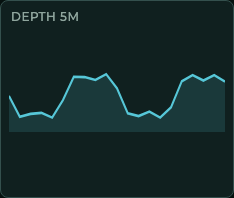
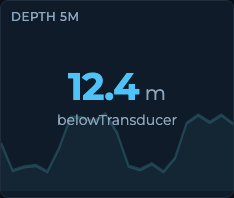
fix(manager): sync wind dial, wind-steer + trend previews to the device
The web layout-editor's screen designs had drifted from the redesigned
device screens. Bring the remaining three into sync (autopilot HUD was
done in 267f7ea):

- windDial: redesigned to match screen_wind.cpp — wide white band +
  green rail, heading-up upright cardinals (N red), close-hauled red/
  green arcs, compact boat, slim orange-A/cyan-T wind markers, tide
  vector, HDG, AWS/AWA/TWS/TWA tiles.
- windSteer: new fullscreen preview + preset matching
  screen_wind_steer.cpp — the autopilot-style semicircular compass with
  a faint red no-go sector + slim green target laylines (from the polar
  beat/gybe angles) + amber wind bug, "TWA | TWD" sub-line, XTE strip,
  AWS/AWA/TWS/TWA tiles. Added the windSteer widget type, the
  wind-steer screen preset, and the performance.beatAngle/gybeAngle +
  environment.wind.directionTrue SK paths.
- trend: the device renders a trend metric in a grid tile as its latest
  NUMERIC value (ui_layouts.cpp falls Trend back to Numeric — the
  sparkline chart is a dedicated template, not a per-tile widget). The
  preview now shows the numeric hero over a faint sparkline watermark so
  it stays device-accurate yet distinct in the widget picker.

preset-coverage now expects 10 screens (wind-steer added). All manager
tests pass (node test/run.js + npx playwright test widget-snapshots).

Changed region(s): [[0.0, 0.0, 1.0, 1.0], [0.5085, 0.697, 0.7778, 0.8788], [0.2094, 0.697, 0.2692, 0.8485]]

diff --git a/signalk/plugins/signalk-espdisp-manager/public/layout-editor.html b/signalk/plugins/signalk-espdisp-manager/public/layout-editor.html
@@ -186,6 +186,12 @@
   .wpreview .btn-bubble { background: var(--accent); color: #001218; border-radius: 20px;
     padding: 10px 22px; font-weight: 700; font-size: 16px; letter-spacing: 0.04em; }
   .wpreview .trend svg { width: 100%; height: 72px; }
+  /* Trend tile: device falls back to the latest numeric value, so the number
+     is the hero and the sparkline sits behind it as a faint watermark. */
+  .wpreview .trend-ghost { position: absolute; left: 0; right: 0; bottom: 0;
+    pointer-events: none; }
+  .wpreview .trend-ghost svg { height: 96px; }
+  .wpreview .trend-num { position: relative; z-index: 1; }
   .wpreview.empty { color: var(--fg-dim); font-style: italic; min-height: 60px; }
   /* windDial fills the whole tile width and stays square */
   .wpreview.wd-wrap { min-height: 0; padding: 0; }
@@ -566,88 +572,153 @@ function widgetPreview (widget, tile) {
       return wrap;
     }
     case 'windDial': {
-      // Full-screen wind dial preview that matches the device's
-      // src/ui/screen_wind.cpp render: outer bezel ring, N/E/S/W
-      // cardinals + intercardinals, close-hauled red/green arcs at
-      // ±30° from bow, bow-relative wind-angle scale (30..150),
-      // apparent + true wind markers, tide arrow, center readouts.
-      // Sample values picked to match a recognizable beam reach.
+      // Full-screen wind dial preview matching the device's current
+      // src/ui/screen_wind.cpp render: a 360° rose with a wide white band +
+      // green rail, UPRIGHT cardinals (heading-up, repositioned per heading),
+      // close-hauled red/green arcs at the bow, a compact boat, slim
+      // orange-A / cyan-T wind markers, a tide arrow, and the numbers in a
+      // bottom tile row (AWS / AWA / TWS / TWA).
       const svgNS = 'http://www.w3.org/2000/svg';
       const svg = document.createElementNS(svgNS, 'svg');
       svg.setAttribute('viewBox', '0 0 480 480');
       svg.setAttribute('preserveAspectRatio', 'xMidYMid meet');
-      // Build SVG by string for compactness; the markup mirrors the
-      // LVGL element list in screen_wind.cpp::build_bezel et al.
-      const CX = 240, CY = 240, R = 218, RC = 175, RF = 190, RM = 200;
-      const sampleHdg = 47, sampleAWA = 50, sampleTWA = 75;
-      function polar (cx, cy, deg, r) {
-        const a = (deg - 90) * Math.PI / 180;
-        return [cx + r * Math.cos(a), cy + r * Math.sin(a)];
-      }
+      const CX = 240, CY = 174, RB = 158, RW = 145, RM = 140, RF = 130;
+      const hdg = 56, awa = 42, twa = 46;
+      function polar (deg, r) { const a = (deg - 90) * Math.PI / 180; return [CX + r * Math.cos(a), CY + r * Math.sin(a)]; }
       const ticks = [];
       for (let d = 22.5; d < 360; d += 45) {
-        const [x1, y1] = polar(CX, CY, d - sampleHdg, R - 16);
-        const [x2, y2] = polar(CX, CY, d - sampleHdg, R - 6);
-        ticks.push(`<line x1="${x1}" y1="${y1}" x2="${x2}" y2="${y2}" stroke="#8fa59d" stroke-width="2"/>`);
+        const [x1, y1] = polar(d - hdg, RB - 4);
+        const [x2, y2] = polar(d - hdg, RB - 13);
+        ticks.push(`<line x1="${x1}" y1="${y1}" x2="${x2}" y2="${y2}" stroke="#5a6b78" stroke-width="2"/>`);
       }
-      function card (label, deg, big) {
-        const [x, y] = polar(CX, CY, deg - sampleHdg, R - 22);
-        const f = big ? 24 : 16;
-        const c = big ? '#f3f7f2' : '#8fa59d';
-        return `<text x="${x}" y="${y + f * 0.35}" font-family="Montserrat" font-weight="700" font-size="${f}" fill="${c}" text-anchor="middle">${label}</text>`;
+      const cards = [];
+      for (const [lab, b, big] of [['N', 0, 1], ['NE', 45, 0], ['E', 90, 1], ['SE', 135, 0], ['S', 180, 1], ['SW', 225, 0], ['W', 270, 1], ['NW', 315, 0]]) {
+        const [x, y] = polar(b - hdg, RW);
+        const f = big ? 20 : 14;
+        const col = lab === 'N' ? '#ff5252' : (big ? '#16222f' : '#44546a');
+        cards.push(`<text x="${x}" y="${y + f * 0.34}" font-family="Montserrat" font-weight="700" font-size="${f}" fill="${col}" text-anchor="middle">${lab}</text>`);
       }
-      // Numeric wind-angle scale (bow-relative, so NOT rotated with bezel).
-      const scaleNums = [];
-      for (const d of [30, 60, 90, 120, 150]) {
-        for (const sign of [-1, 1]) {
-          const [x, y] = polar(CX, CY, sign * d, RF - 26);
-          scaleNums.push(`<text x="${x}" y="${y + 4}" font-family="Montserrat" font-size="13" fill="#8fa59d" text-anchor="middle">${d}</text>`);
-        }
+      function wm (deg, color, letter) {
+        const [ox, oy] = polar(deg, RM);
+        const [ix, iy] = polar(deg, RM - 30);
+        const [lx, ly] = polar(deg, RM - 46);
+        return `<line x1="${ox}" y1="${oy}" x2="${ix}" y2="${iy}" stroke="${color}" stroke-width="6" stroke-linecap="round"/>`
+          + `<circle cx="${ox}" cy="${oy}" r="7" fill="${color}"/>`
+          + `<text x="${lx}" y="${ly + 6}" font-family="Montserrat" font-size="18" font-weight="700" fill="${color}" text-anchor="middle">${letter}</text>`;
       }
-      const [awaX, awaY] = polar(CX, CY, sampleAWA, RM - 14);
-      const [twaX, twaY] = polar(CX, CY, sampleTWA, RM - 14);
+      function tile (x, cap, unit, val, col) {
+        const y = 356, w = 110, h = 116;
+        return `<rect x="${x}" y="${y}" width="${w}" height="${h}" rx="10" fill="#101b29" stroke="#1f2d3d"/>`
+          + `<text x="${x + 8}" y="${y + 22}" font-family="Montserrat" font-size="14" fill="#8fa7bd">${cap}</text>`
+          + (unit ? `<text x="${x + w - 8}" y="${y + 22}" font-family="Montserrat" font-size="14" fill="#8fa7bd" text-anchor="end">${unit}</text>` : '')
+          + `<text x="${x + w / 2}" y="${y + h - 20}" font-family="Montserrat" font-size="38" font-weight="700" fill="${col}" text-anchor="middle">${val}</text>`;
+      }
       svg.innerHTML = `
-        <!-- bezel rim -->
-        <circle cx="${CX}" cy="${CY}" r="${R}" fill="none" stroke="#34504d" stroke-width="6"/>
-        <circle cx="${CX}" cy="${CY}" r="${R + 10}" fill="none" stroke="#111a26" stroke-width="2"/>
-        <circle cx="${CX}" cy="${CY}" r="${R - 14}" fill="none" stroke="#0c1828" stroke-width="1"/>
-        <!-- dark face -->
-        <circle cx="${CX}" cy="${CY}" r="${RF}" fill="#06110f"/>
-        <!-- ticks + cardinals (rotated as a group to mirror device bezel rotation by -hdg) -->
+        <circle cx="${CX}" cy="${CY}" r="${RF}" fill="#101b29" stroke="#1f2d3d"/>
+        <circle cx="${CX}" cy="${CY}" r="${RB}" fill="none" stroke="#f2f6fb" stroke-width="26" stroke-opacity="0.92"/>
+        <circle cx="${CX}" cy="${CY}" r="${RB + 9}" fill="none" stroke="#36d399" stroke-width="6" stroke-opacity="0.85"/>
         ${ticks.join('')}
-        ${card('N', 0, true)}${card('E', 90, true)}${card('S', 180, true)}${card('W', 270, true)}
-        ${card('NE', 45)}${card('SE', 135)}${card('SW', 225)}${card('NW', 315)}
-        <!-- bow notch outside the bezel (always at top) -->
-        <rect x="${CX - 4}" y="${CY - R - 14}" width="8" height="12" fill="#f3f7f2" rx="2"/>
-        <!-- close-hauled arcs (red port, green starboard) -->
-        <path d="M ${polar(CX,CY,-30,RC).join(' ')} A ${RC} ${RC} 0 0 1 ${polar(CX,CY,0,RC).join(' ')}" fill="none" stroke="#ff4d6d" stroke-width="6" opacity="0.7"/>
-        <path d="M ${polar(CX,CY,0,RC).join(' ')} A ${RC} ${RC} 0 0 1 ${polar(CX,CY,30,RC).join(' ')}" fill="none" stroke="#39d98a" stroke-width="6" opacity="0.7"/>
-        <!-- bow-relative wind-angle scale -->
-        ${scaleNums.join('')}
-        <!-- boat hull outline (semi-transparent) -->
-        <path d="M ${CX-28},${CY+63} L ${CX-28},${CY-7} L ${CX-22},${CY-42} L ${CX},${CY-92} L ${CX+22},${CY-42} L ${CX+28},${CY-7} L ${CX+28},${CY+63}"
-              fill="none" stroke="#f3f7f2" stroke-opacity="0.3" stroke-width="3" stroke-linejoin="round"/>
-        <!-- AWA marker (apparent wind, amber) -->
-        <rect x="${awaX - 14}" y="${awaY - 16}" width="28" height="32" rx="6"
-              fill="#ffb84d" stroke="#34504d" stroke-width="1"/>
-        <text x="${awaX}" y="${awaY + 6}" font-family="Montserrat" font-size="18" font-weight="700"
-              fill="#06110f" text-anchor="middle">A</text>
-        <!-- TWA marker (true wind, cyan) -->
-        <rect x="${twaX - 14}" y="${twaY - 16}" width="28" height="32" rx="6"
-              fill="#57c7d8" stroke="#34504d" stroke-width="1"/>
-        <text x="${twaX}" y="${twaY + 6}" font-family="Montserrat" font-size="18" font-weight="700"
-              fill="#06110f" text-anchor="middle">T</text>
-        <!-- Center readouts (AWS / TWS) -->
-        <text x="${CX}" y="${CY - 6}" font-family="Montserrat" font-size="38" font-weight="700"
-              fill="#57c7d8" text-anchor="middle">9.7</text>
-        <text x="${CX}" y="${CY + 18}" font-family="Montserrat" font-size="14"
-              fill="#8fa59d" text-anchor="middle">AWS kn</text>
-        <text x="${CX}" y="${CY + 42}" font-family="Montserrat" font-size="16" font-weight="500"
-              fill="#39d98a" text-anchor="middle">TWS 11.2</text>
-        <!-- HDG label at bow (rotates with bezel; sampleHdg here means
-             the bezel rotated -47°, so the cardinal at top is roughly 47°) -->
-        <text x="${CX}" y="${CY - R + 32}" font-family="Montserrat" font-size="14"
-              fill="#f3f7f2" text-anchor="middle">HDG ${String(sampleHdg).padStart(3,'0')}°</text>`;
+        ${cards.join('')}
+        <path d="M ${CX - 8},${CY - RB - 12} L ${CX + 8},${CY - RB - 12} L ${CX},${CY - RB + 2} Z" fill="#ff5252"/>
+        <path d="M ${polar(-30, RF - 8).join(' ')} A ${RF - 8} ${RF - 8} 0 0 1 ${polar(0, RF - 8).join(' ')}" fill="none" stroke="#ff5252" stroke-width="6" opacity="0.7"/>
+        <path d="M ${polar(0, RF - 8).join(' ')} A ${RF - 8} ${RF - 8} 0 0 1 ${polar(30, RF - 8).join(' ')}" fill="none" stroke="#36d399" stroke-width="6" opacity="0.7"/>
+        <path d="M ${CX - 17},${CY + 34} L ${CX - 17},${CY - 3} L ${CX},${CY - 48} L ${CX + 17},${CY - 3} L ${CX + 17},${CY + 34}" fill="none" stroke="#eef4fa" stroke-opacity="0.3" stroke-width="3" stroke-linejoin="round"/>
+        ${wm(twa, '#2bd4e8', 'T')}
+        ${wm(awa, '#ff8800', 'A')}
+        <line x1="${CX}" y1="${CY}" x2="${CX + 16}" y2="${CY + 32}" stroke="#288cff" stroke-width="5" stroke-linecap="round"/>
+        <text x="${CX - 24}" y="${CY + 6}" font-family="Montserrat" font-size="16" fill="#eef4fa">1.4</text>
+        <text x="${CX}" y="${CY - RF + 30}" font-family="Montserrat" font-size="14" fill="#8fa7bd" text-anchor="middle">HDG</text>
+        <text x="${CX}" y="${CY - RF + 52}" font-family="Montserrat" font-size="22" font-weight="700" fill="#4fc3f7" text-anchor="middle">${String(hdg).padStart(3, '0')}°</text>
+        ${tile(8, 'AWS', 'kn', '12.4', '#ffb84d')}
+        ${tile(126, 'AWA', '', '42S', '#eef4fa')}
+        ${tile(244, 'TWS', 'kn', '14.5', '#eef4fa')}
+        ${tile(362, 'TWA', '', '46S', '#eef4fa')}`;
+      const wrap = el('div', { className: 'wpreview wd-wrap' });
+      wrap.append(svg);
+      return wrap;
+    }
+    case 'windSteer': {
+      // Full-screen wind-steering HUD matching the device's
+      // src/ui/screen_wind_steer.cpp: the same semicircular heading compass as
+      // the autopilot HUD (white band + green rail, upright scale, red lubber)
+      // but the band carries a faint red NO-GO sector + slim green TARGET
+      // laylines (driven by the SignalK polar beat/gybe angles) and an amber
+      // wind bug. HDG hero, a "TWA | TWD" sub-line, an XTE strip, and the
+      // AWS/AWA/TWS/TWA tile row. Heading-up: a degree D shows at angle (D - hdg).
+      const svgNS = 'http://www.w3.org/2000/svg';
+      const svg = document.createElementNS(svgNS, 'svg');
+      svg.setAttribute('viewBox', '0 0 480 480');
+      svg.setAttribute('preserveAspectRatio', 'xMidYMid meet');
+      const CX = 240, CYc = 272, R = 214, RB = 200;
+      const hdg = 56, twd = 102, twaMag = 46, tws = 14.5;
+      const up = twaMag <= 90;
+      const beat = 42, gybe = 150;           // device polar fallbacks / sample
+      const opt = up ? beat : gybe;
+      let tol = 16 - 0.6 * tws; tol = Math.max(4, Math.min(16, tol));
+      function polar (deg, r) { const a = (deg - 90) * Math.PI / 180; return [CX + r * Math.cos(a), CYc + r * Math.sin(a)]; }
+      function arc (t0, t1, r) {
+        const [x0, y0] = polar(t0, r), [x1, y1] = polar(t1, r);
+        const large = (t1 - t0) > 180 ? 1 : 0;
+        return `M ${x0} ${y0} A ${r} ${r} 0 ${large} 1 ${x1} ${y1}`;
+      }
+      // No-go centred on the wind direction from the bow; targets flank it.
+      const twdRel = ((twd - hdg) % 360 + 360) % 360;
+      const badc = up ? twdRel : (twdRel + 180) % 360;
+      let half = up ? opt : (180 - opt); half = Math.max(4, Math.min(88, half));
+      const c = badc > 180 ? badc - 360 : badc;
+      const ticks = [];
+      for (let d = -90; d <= 90; d += 15) {
+        const major = ((((Math.round(d + hdg) % 30) + 30) % 30)) === 0;
+        const [x1, y1] = polar(d, RB + 12);
+        const [x2, y2] = polar(d, RB + 12 - (major ? 12 : 7));
+        ticks.push(`<line x1="${x1}" y1="${y1}" x2="${x2}" y2="${y2}" stroke="#16222f" stroke-width="${major ? 3 : 2}"/>`);
+      }
+      const nums = [];
+      for (const deg of [0, 30, 60, 90, 120, 150, 330]) {
+        const rel = ((deg - hdg + 540) % 360) - 180;
+        if (rel < -96 || rel > 96) continue;
+        const [x, y] = polar(rel, RB - 14);
+        const card = (deg % 90) === 0;
+        const txt = deg === 0 ? 'N' : deg === 90 ? 'E' : deg === 180 ? 'S' : deg === 270 ? 'W' : String(deg);
+        const f = card ? 20 : 16;
+        nums.push(`<text x="${x}" y="${y + f * 0.34}" font-family="Montserrat" font-weight="700" font-size="${f}" fill="${card ? '#ff5252' : '#16222f'}" text-anchor="middle">${txt}</text>`);
+      }
+      const railPath = `M ${polar(-90, R + 8).join(' ')} A ${R + 8} ${R + 8} 0 0 1 ${polar(90, R + 8).join(' ')}`;
+      const bandPath = `M ${polar(-90, RB).join(' ')} A ${RB} ${RB} 0 0 1 ${polar(90, RB).join(' ')}`;
+      const [bx, by] = polar(twdRel > 180 ? twdRel - 360 : twdRel, R + 6);
+      function tile (x, cap, unit, val, col) {
+        const y = 362, s = 110;
+        return `<rect x="${x}" y="${y}" width="${s}" height="${s}" rx="10" fill="#101b29" stroke="#1f2d3d"/>`
+          + `<text x="${x + 8}" y="${y + 22}" font-family="Montserrat" font-size="14" fill="#8fa7bd">${cap}</text>`
+          + (unit ? `<text x="${x + s - 8}" y="${y + 22}" font-family="Montserrat" font-size="14" fill="#8fa7bd" text-anchor="end">${unit}</text>` : '')
+          + `<text x="${x + s / 2}" y="${y + s - 18}" font-family="Montserrat" font-size="38" font-weight="700" fill="${col}" text-anchor="middle">${val}</text>`;
+      }
+      svg.innerHTML = `
+        <rect x="10" y="10" width="110" height="40" rx="10" fill="#101b29" stroke="#1f2d3d"/>
+        <text x="65" y="37" font-family="Montserrat" font-size="20" fill="#eef4fa" text-anchor="middle">STBY</text>
+        <text x="240" y="32" font-family="Montserrat" font-size="20" font-weight="700" fill="#36d399" text-anchor="middle">AUTO</text>
+        <rect x="360" y="10" width="110" height="40" rx="10" fill="#101b29" stroke="#1f2d3d"/>
+        <text x="415" y="37" font-family="Montserrat" font-size="20" fill="#eef4fa" text-anchor="middle">HOME</text>
+        <path d="${railPath}" fill="none" stroke="#36d399" stroke-width="10"/>
+        <path d="${bandPath}" fill="none" stroke="#f2f6fb" stroke-width="44"/>
+        <path d="${arc(c - half, c + half, RB)}" fill="none" stroke="#ff5252" stroke-width="40" stroke-opacity="0.32"/>
+        <path d="${arc(c + half, c + half + tol, RB + 8)}" fill="none" stroke="#36d399" stroke-width="12"/>
+        <path d="${arc(c - half - tol, c - half, RB + 8)}" fill="none" stroke="#36d399" stroke-width="12"/>
+        ${ticks.join('')}
+        ${nums.join('')}
+        <path d="M ${CX - 9},${CYc - R - 2} L ${CX + 9},${CYc - R - 2} L ${CX},${CYc - R + 14} Z" fill="#ff5252"/>
+        <path d="M ${bx - 9},${by - 9} L ${bx + 9},${by - 9} L ${bx},${by + 9} Z" fill="#ffb84d"/>
+        <text x="${CX}" y="${CYc - R / 2 - 12}" font-family="Montserrat" font-size="20" fill="#8fa7bd" text-anchor="middle">HDG</text>
+        <text x="${CX}" y="${CYc - R / 2 + 38}" font-family="Montserrat" font-size="64" font-weight="700" fill="#eef4fa" text-anchor="middle">56.0°</text>
+        <text x="${CX}" y="${CYc - 2}" font-family="Montserrat" font-size="20" fill="#8fa7bd" text-anchor="middle">TWA 46°S  |  TWD 102°</text>
+        <text x="16" y="306" font-family="Montserrat" font-size="14" fill="#8fa7bd">PORT</text>
+        <text x="464" y="306" font-family="Montserrat" font-size="14" fill="#8fa7bd" text-anchor="end">STBD</text>
+        <line x1="40" y1="318" x2="440" y2="318" stroke="#2a3a4c" stroke-width="2"/>
+        <rect x="262" y="302" width="3" height="32" rx="1" fill="#ff5252"/>
+        ${tile(8, 'AWS', 'kn', '12.4', '#ffb84d')}
+        ${tile(126, 'AWA', '', '42S', '#eef4fa')}
+        ${tile(244, 'TWS', 'kn', '14.5', '#eef4fa')}
+        ${tile(362, 'TWA', '', '46S', '#eef4fa')}`;
       const wrap = el('div', { className: 'wpreview wd-wrap' });
       wrap.append(svg);
       return wrap;
@@ -713,23 +784,34 @@ function widgetPreview (widget, tile) {
       return wrap;
     }
     case 'trend': {
+      // The device renders a trend metric inside a grid tile as its latest
+      // NUMERIC value -- the sparkline chart only exists as a dedicated
+      // template, not a per-tile widget (ui_layouts.cpp: `WidgetKind::Trend:
+      // sparkline not yet implemented; fall back` -> Numeric). So preview the
+      // numeric hero (device-accurate) over a faint sparkline watermark that
+      // keeps the trend widget distinct in the picker.
+      const s = sampleFor(tile, { value: '8.4', unit: 'm' });
       const svgNS = 'http://www.w3.org/2000/svg';
       const svg = document.createElementNS(svgNS, 'svg');
       svg.setAttribute('viewBox', '0 0 220 56');
       svg.setAttribute('preserveAspectRatio', 'none');
-      // Pseudo-random sparkline so each preview is visually distinct.
       const pts = [];
       for (let x = 0; x <= 220; x += 11) {
         const y = 28 + 18 * Math.sin(x / 18) + 6 * Math.sin(x / 6);
         pts.push(`${x},${y.toFixed(1)}`);
       }
-      svg.innerHTML = `<polyline points="${pts.join(' ')}" fill="none" stroke="#57c7d8" stroke-width="2"/>` +
-                      `<polyline points="0,56 ${pts.join(' ')} 220,56" fill="rgba(87,199,216,0.15)" stroke="none"/>`;
-      const wrap = el('div', { className: 'wpreview' });
+      svg.innerHTML = `<polyline points="${pts.join(' ')}" fill="none" stroke="#57c7d8" stroke-width="2" stroke-opacity="0.22"/>` +
+                      `<polyline points="0,56 ${pts.join(' ')} 220,56" fill="rgba(87,199,216,0.06)" stroke="none"/>`;
+      const wrap = el('div', { className: 'wpreview trend-wrap' });
       const cc = chromeCap(tile); if (cc) wrap.append(cc);
-      const trend = el('div', { className: 'trend' });
+      const trend = el('div', { className: 'trend trend-ghost' });
       trend.append(svg);
       wrap.append(trend);
+      wrap.append(el('div', { className: 'num-stack trend-num' },
+        el('div', { className: 'num-row' },
+          el('span', { className: 'num-primary' }, s.value),
+          el('span', { className: 'num-unit' }, s.unit)),
+        el('div', { className: 'num-secondary' }, (tile && tile.primary) ? tile.primary.split('.').pop() : 'latest value')));
       return wrap;
     }
     case 'autopilot': {

diff --git a/signalk/plugins/signalk-espdisp-manager/lib/screen-presets.js b/signalk/plugins/signalk-espdisp-manager/lib/screen-presets.js
@@ -40,6 +40,9 @@ const SK = {
   aws:           'environment.wind.speedApparent',
   twa:           'environment.wind.angleTrueWater',
   tws:           'environment.wind.speedTrue',
+  twd:           'environment.wind.directionTrue',
+  beatAngle:     'performance.beatAngle',
+  gybeAngle:     'performance.gybeAngle',
   // Environment
   depth:         'environment.depth.belowTransducer',
   depthKeel:     'environment.depth.belowKeel',
@@ -203,6 +206,25 @@ const WIDGET_TYPES = {
       currentSet: { required: false, label: 'Current set (rad, tide vector)' },
       currentDrift: { required: false, label: 'Current drift (m/s)' }
     }
+  },
+  windSteer: {
+    label: 'Wind steering (full-screen)',
+    description: 'Semicircular heading compass with a red no-go sector + green '
+      + 'target laylines (from the SignalK polar beat/gybe angles) + amber wind '
+      + "bug, HDG hero, TWA/TWD sub-line, XTE strip, AWS/AWA/TWS/TWA tiles. "
+      + "Matches the device's screen_wind_steer.cpp render.",
+    fullscreen: true,
+    metrics: {
+      heading: { required: true,  label: 'Heading (rad)' },
+      twd: { required: false, label: 'True wind direction (rad)' },
+      twa: { required: false, label: 'True wind angle (rad)' },
+      tws: { required: false, label: 'True wind speed (m/s)' },
+      awa: { required: false, label: 'Apparent wind angle (rad)' },
+      aws: { required: false, label: 'Apparent wind speed (m/s)' },
+      beatAngle: { required: false, label: 'Polar beat angle (rad)' },
+      gybeAngle: { required: false, label: 'Polar gybe angle (rad)' },
+      xte: { required: false, label: 'Cross-track error (m)' }
+    }
   }
 }
 
@@ -294,6 +316,31 @@ function fullscreenWind () {
       cog: SK.cog,
       currentSet: SK.currentSet,
       currentDrift: SK.currentDrift
+    }]
+  }
+}
+
+function windSteerScreen () {
+  // Dedicated full-screen wind-steering HUD matching the device's
+  // src/ui/screen_wind_steer.cpp: the autopilot-style semicircular compass with
+  // a red no-go sector + green target laylines (from the polar beat/gybe
+  // angles) + amber wind bug, plus AWS/AWA/TWS/TWA tiles. One fullscreen tile.
+  return {
+    id: 'wind-steer',
+    title: 'Wind steer',
+    type: 'fullscreen',
+    tiles: [{
+      widget: 'windSteer',
+      title: '',
+      heading: SK.heading,
+      twd: SK.twd,
+      twa: SK.twa,
+      tws: SK.tws,
+      awa: SK.awa,
+      aws: SK.aws,
+      beatAngle: SK.beatAngle,
+      gybeAngle: SK.gybeAngle,
+      xte: SK.xte
     }]
   }
 }
@@ -444,6 +491,7 @@ function getPresetsForClass (displayClass) {
   return [
     dash,
     fullscreenWind(),
+    windSteerScreen(),
     fullscreenNav(displayClass),
     depthTempScreen(displayClass),
     steeringScreen(displayClass),

diff --git a/signalk/plugins/signalk-espdisp-manager/test/preset-coverage.test.js b/signalk/plugins/signalk-espdisp-manager/test/preset-coverage.test.js
@@ -1,15 +1,15 @@
 // Preset coverage contract.
 //
 // Asserts every supported display class produces a complete preset library
-// (dashboard, wind, nav, depth, steering, route, trip, autopilot, system)
-// and that each grid-type preset's tile count matches the display's grid
-// budget. Wind is a fullscreen dial (1 tile) on every class.
+// (dashboard, wind, wind-steer, nav, depth, steering, route, trip, autopilot,
+// system) and that each grid-type preset's tile count matches the display's
+// grid budget. Wind and wind-steer are fullscreen HUDs (1 tile) on every class.
 
 const assert = require('assert')
 const presets = require('../lib/screen-presets')
 
 const EXPECTED_IDS = [
-  'dashboard', 'wind', 'nav', 'depth', 'steering',
+  'dashboard', 'wind', 'wind-steer', 'nav', 'depth', 'steering',
   'route', 'trip', 'autopilot', 'system'
 ]
 